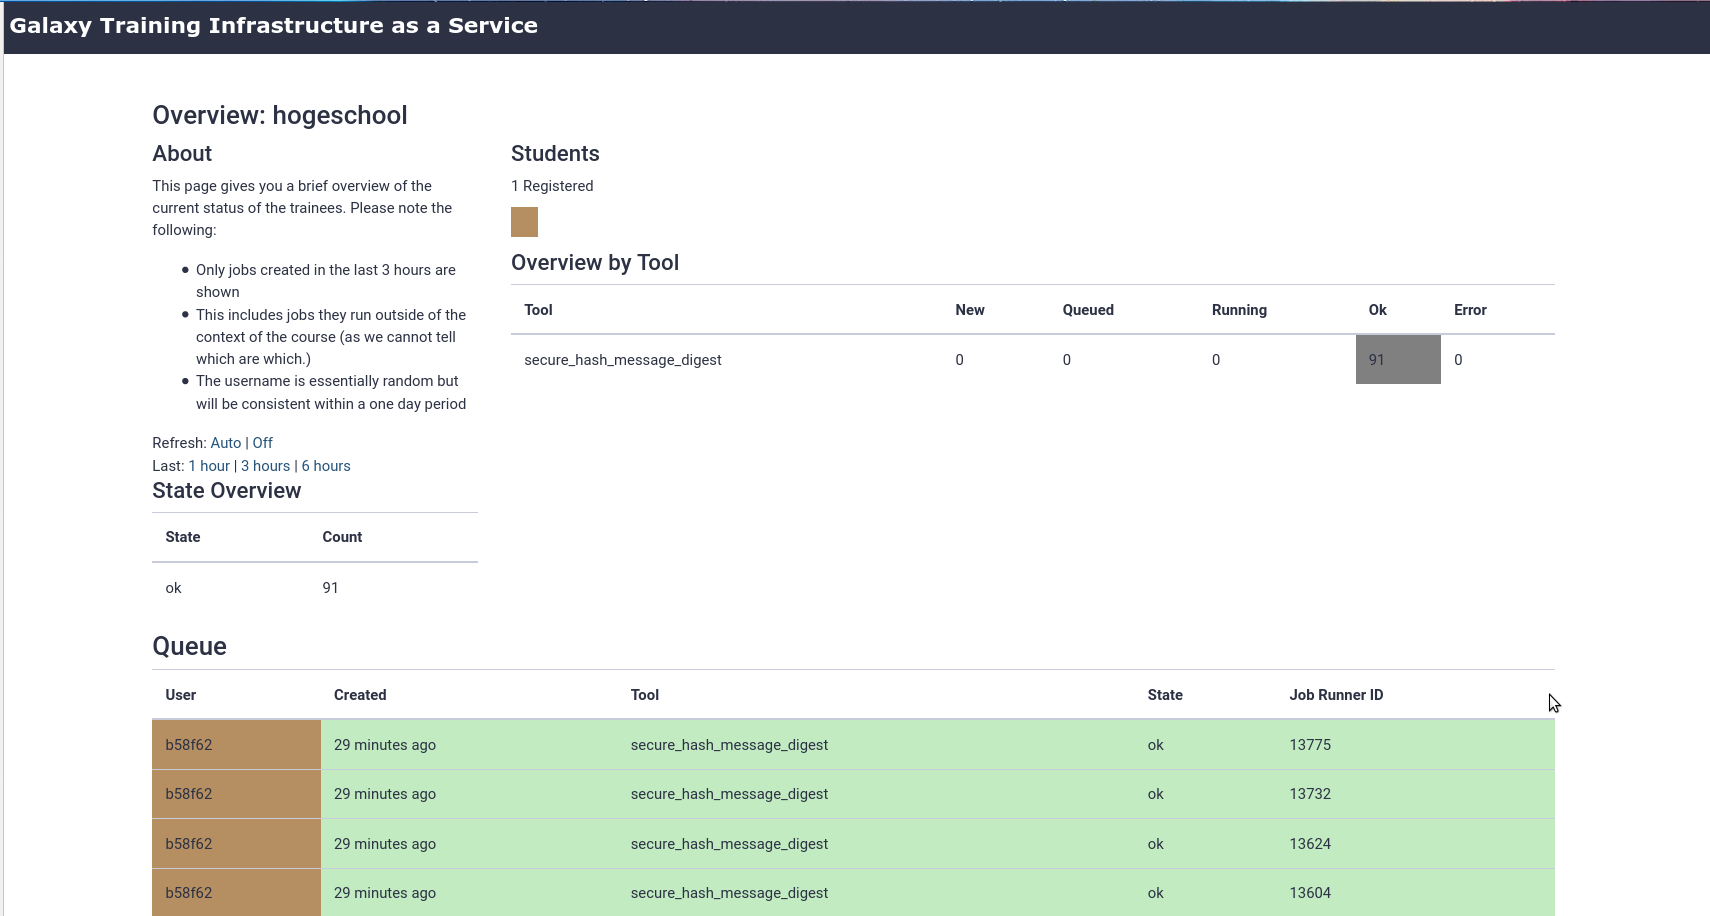
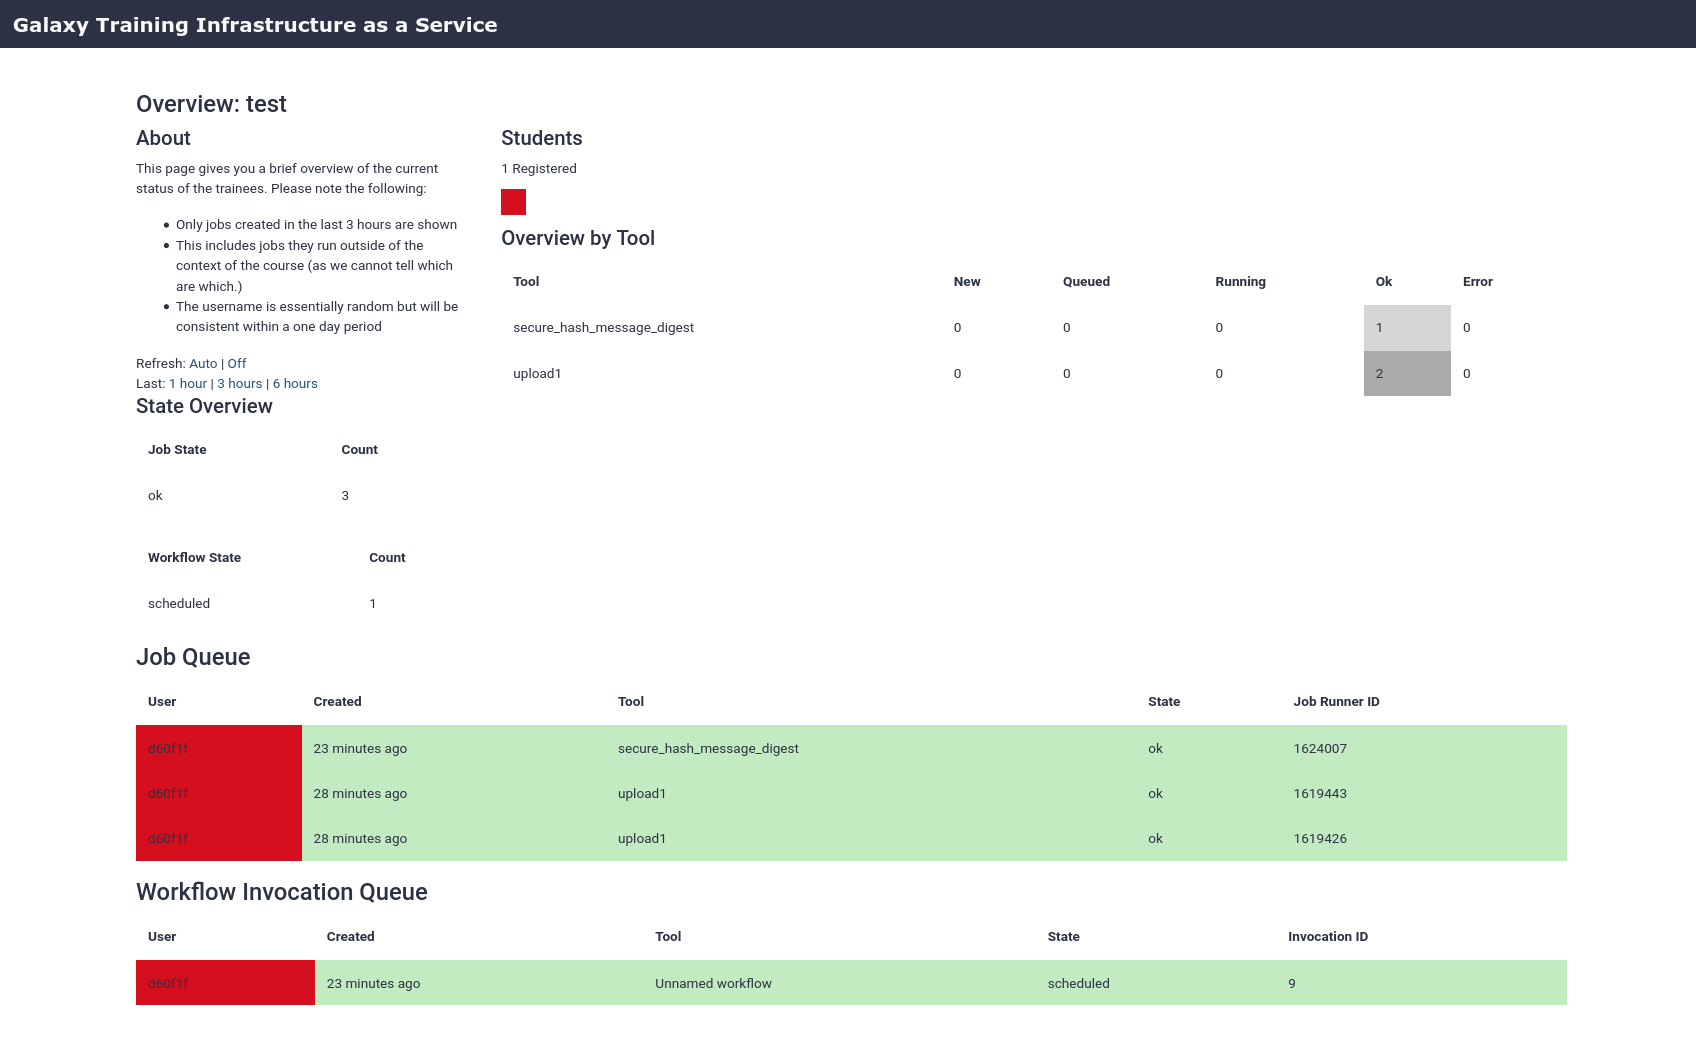
update image

diff --git a/README.md b/README.md
@@ -16,10 +16,10 @@ path prefix of Galaxy and so having access to the Galaxy session cookie. This
 is decoded into a user id + the part after `/join-training/` decoded into a
 group name, and this change is made.
 
-## Status Page
+## New! Status Page
 
 For teachers giving trainings, we now offer a "status" page where they can see
-the training queue of their class.
+the training queue of their class, both jobs and workflows.
 
 ![](images/queue.png)
 
